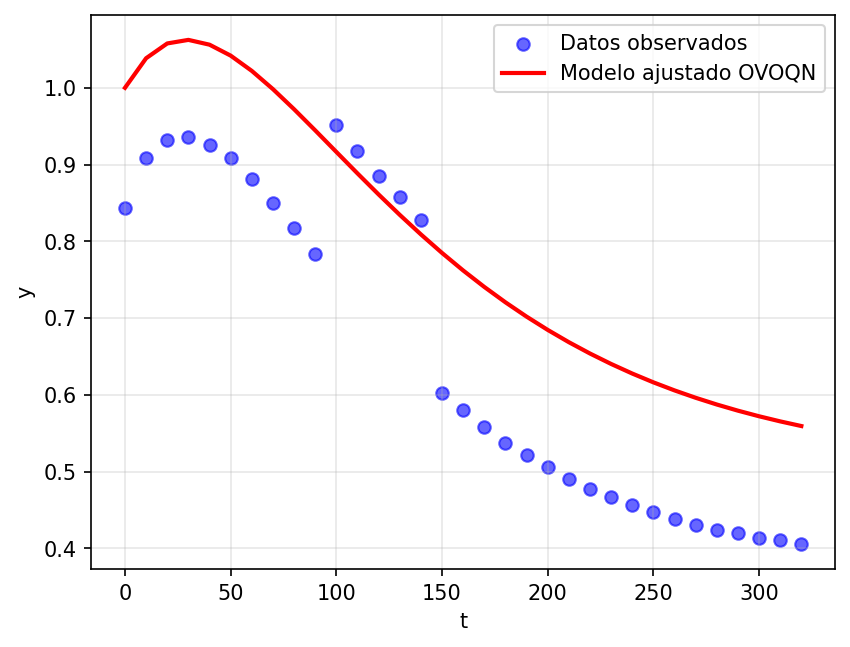
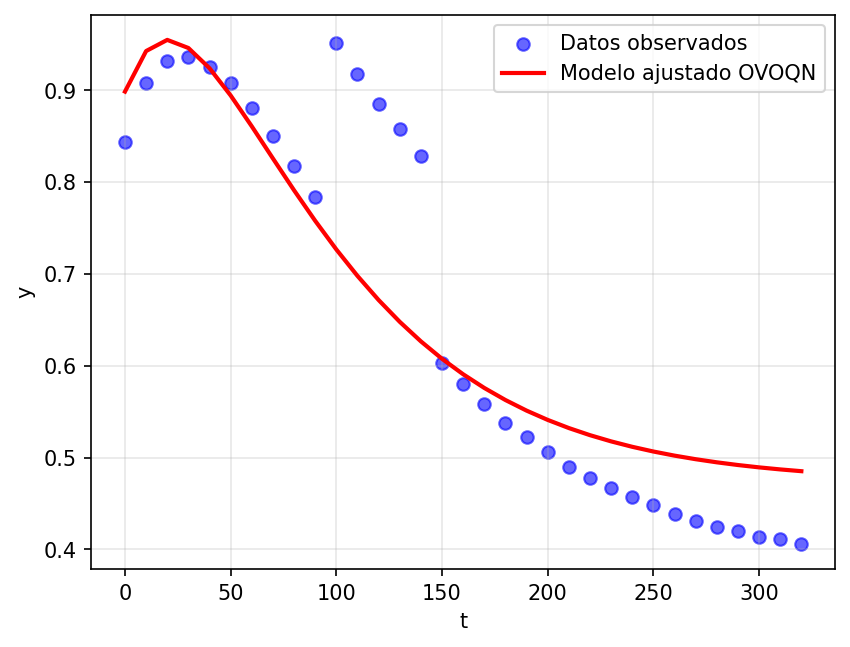
Updated on 10-01-2025 at 23:00

diff --git a/codigos/ovo_osbore_cn.py b/codigos/ovo_osbore_cn.py
@@ -6,7 +6,7 @@ def model(t, x0, x1, x2, x3, x4):
     return x0 + (x1 * np.exp(-t * x3)) + (x2 * np.exp(-t * x4))
 
 def f_i(ti, yi, x):
-    return 0.5 * (model(ti, *x) - yi)**2
+    return 0.5 * ((model(ti, *x) - yi)**2)
 
 def grad_f_i(ti, yi, x, grad):
     diff = model(ti, *x) - yi
@@ -59,17 +59,17 @@ def constraint_jac(var, g, B):
     return gradc
 
 def ovoqn(t, y):
-    epsilon = 1e-8
-    delta = 1e-3  # Mucho más pequeño para menos restricciones
-    deltax = 2.0
-    theta = 0.1
+    epsilon = 1e-9
+    delta = 1e-3
+    deltax = 0.5
+    theta = 0.5
     q = 27
     max_iter = 200
-    max_iterarmijo = 30
+    max_iterarmijo = 100
 
     m = len(t)
     q = min(q, m-1)
-    xk = np.array([0.5, 1.5, -1.0, 0.01, 0.02])
+    xk = np.array([0.4, 1.2, -0.8, 0.05, 0.03])
     faux = np.zeros(m)
     Idelta = np.zeros(m, dtype=int)
     types = np.empty(m, dtype=object)
@@ -88,10 +88,7 @@ def ovoqn(t, y):
         nconst = mount_Idelta(fxk, faux_sorted, indices, delta, Idelta, types, m)
         
         if nconst == 0:
-            delta *= 2
-            continue
-        
-        print(f"Iter {iteracion}: nconst={nconst}, fxk={fxk:.6e}")
+            break
 
         grads = []
         Bkjs = []
@@ -106,8 +103,6 @@ def ovoqn(t, y):
             constr_types.append(types[r])
 
         x0 = np.zeros(6)
-        x0[5] = -1.0  # Inicializar z en valor negativo
-        # Restricción ||d||_inf <= deltax
         bounds = [(-deltax, deltax)] * 5 + [(None, 0.0)]
 
         constraints = []
@@ -118,31 +113,17 @@ def ovoqn(t, y):
                 'jac': lambda var, g=g, B=B: constraint_jac(var, g, B)
             })
 
-        try:
-            res = minimize(lambda var: var[5], x0, method="SLSQP",
-                           bounds=bounds, constraints=constraints,
-                           options={'ftol':1e-8, 'maxiter':100, 'disp':False})
-        except Exception as e:
-            print(f"Error en minimize: {e}")
-            break
-
-        if not res.success:
-            print(f"Minimize falló: {res.message}")
-            break
+        res = minimize(lambda var: var[5], x0, method="SLSQP",
+                       bounds=bounds, constraints=constraints,
+                       options={'ftol':1e-8, 'maxiter':100, 'disp':False})
 
         d_sol = res.x[:5]
         mkd = float(res.fun)
-        
-        print(f"  -> mkd={mkd:.6e}, |d|={np.linalg.norm(d_sol):.6e}")
-        print(f"  -> Criterios: |mkd|<{epsilon} = {abs(mkd)<epsilon}, |d|<{epsilon} = {np.linalg.norm(d_sol)<epsilon}")
-        print(f"  -> mkd>=-1e-12 = {mkd >= -1e-12}")
 
         if abs(mkd)<epsilon or np.linalg.norm(d_sol)<epsilon:
-            print(f"DETENIENDO: Criterio de convergencia satisfecho")
             xk += d_sol
             break
         if mkd >= -1e-12:
-            print(f"DETENIENDO: mkd no es dirección de descenso")
             break
 
         alpha = 1
@@ -157,17 +138,22 @@ def ovoqn(t, y):
             alpha *= 0.5
 
         xk = x_trial
-        print(f"  -> mkd={mkd:.6e}, armijo={iter_armijo}")
+        print(iteracion, fxk_trial, mkd, iter_armijo)
 
     print("Solución final:", xk)
     return xk
+
+def model_safe(t, x0, x1, x2, x3, x4):
+    arg1 = np.clip(-t * x3, -700, 700)
+    arg2 = np.clip(-t * x4, -700, 700)
+    return x0 + (x1 * np.exp(arg1)) + (x2 * np.exp(arg2))
 
 data = np.loadtxt("data_osborne1.txt")
 t = data[:,0]
 y = data[:,1]
 
 xk_final = ovoqn(t, y)
-y_pred = model(t, *xk_final)
+y_pred = model_safe(t, *xk_final)
 
 plt.scatter(t, y, color="blue", alpha=0.6, label="Datos observados")
 plt.plot(t, y_pred, color="red", linewidth=2, label="Modelo ajustado OVOQN")

diff --git a/codigos/cm_meyer.py b/codigos/cm_meyer.py
@@ -1,0 +1,69 @@
+import numpy as np
+import matplotlib.pyplot as plt
+from scipy.optimize import least_squares
+
+data = np.loadtxt("data_meyer.txt")
+t = data[:, 0]
+y = data[:, 1]
+
+# Función de Meyer: f(x, beta) = beta[0] * exp(beta[1] / (x + beta[2]))
+def meyer(beta, x):
+    return beta[0] * np.exp(beta[1] / (x + beta[2]))
+
+# Función de residuos
+def residuals(beta, x, y):
+    return y - meyer(beta, x)
+
+# Valores iniciales para los parámetros
+beta_0 = np.array([1.0, 1.0, 1.0])
+
+# Ajuste usando mínimos cuadrados no lineales
+result = least_squares(residuals, beta_0, args=(t, y))
+beta_hat = result.x
+y_hat = meyer(beta_hat, t)
+resid = y - y_hat
+
+# Cálculo de la matriz Jacobiana en el óptimo
+J = result.jac
+n, p = len(t), len(beta_hat)
+
+# Estimación de la varianza residual
+sigma2_hat = (resid @ resid) / (n - p)
+
+# Matriz de covarianza de los parámetros
+# cov(beta) ≈ sigma² * (J'J)^(-1)
+cov_beta = sigma2_hat * np.linalg.inv(J.T @ J)
+stderr_beta = np.sqrt(np.diag(cov_beta))
+
+# R² - coeficiente de determinación
+ss_res = np.sum(resid**2)
+ss_tot = np.sum((y - np.mean(y))**2)
+r2 = 1 - (ss_res / ss_tot)
+
+# Resultados numéricos
+print("=" * 60)
+print("AJUSTE FUNCIÓN DE MEYER - MÍNIMOS CUADRADOS NO LINEALES")
+print("=" * 60)
+print(f"\nCoeficientes estimados:")
+print(f"β₁ = {beta_hat[0]:.6f} ± {stderr_beta[0]:.6f}")
+print(f"β₂ = {beta_hat[1]:.6f} ± {stderr_beta[1]:.6f}")
+print(f"β₃ = {beta_hat[2]:.6f} ± {stderr_beta[2]:.6f}")
+print(f"\nVarianza residual estimada = {sigma2_hat:.6f}")
+print(f"R² = {r2:.6f}")
+print(f"Número de iteraciones = {result.nfev}")
+print("=" * 60)
+
+# Graficar
+xx = np.linspace(t.min() - 5, t.max() + 5, 400)
+y_hat_xx = meyer(beta_hat, xx)
+
+plt.figure(figsize=(10, 6))
+plt.scatter(t, y, label='datos observados', marker='o', color='r', s=50, zorder=3)
+plt.plot(xx, y_hat_xx, label='ajuste Meyer', linewidth=2, color='blue')
+plt.xlabel('x')
+plt.ylabel('y')
+plt.title('Ajuste de la Función de Meyer')
+plt.legend()
+plt.grid(True, alpha=0.3)
+plt.tight_layout()
+plt.show()

diff --git a/codigos/ovo_meyer_cauchy.py b/codigos/ovo_meyer_cauchy.py
@@ -30,10 +30,10 @@ def ovo(t, y):
     stop = 5e+0
     epsilon = 1e+8
     delta = 1e+2
-    theta = 0.5
+    theta = 0.3
     n = 4
     m = len(t)
-    q = 15
+    q = 12
     max_iter = 100
     max_iter_armijo = 30
     iter = 1
@@ -120,3 +120,4 @@ y_pred = model(t, *xk_final)
 plt.scatter(t, y, color="blue", alpha=0.6, label="Datos observados")
 plt.plot(t, y_pred, color="red", linewidth=2, label="Modelo ajustado OVO")
 plt.savefig("figuras/ovo_meyer_cauchy.pdf", bbox_inches="tight", dpi=150)
+plt.show()

diff --git a/codigos/data_meyer.py b/codigos/data_meyer.py
@@ -11,6 +11,11 @@ y = np.array([
     8261, 7030, 6005, 5147, 4427, 3820, 3307, 2872
 ])
 
+#noise = 1e+4
+#y[4] += noise
+#y[5] += noise
+#y[6] += noise
+
 with open("data_meyer.txt", "w") as f:
     for i in range(m):
         f.write(f"{t[i]} {y[i]}\n")
